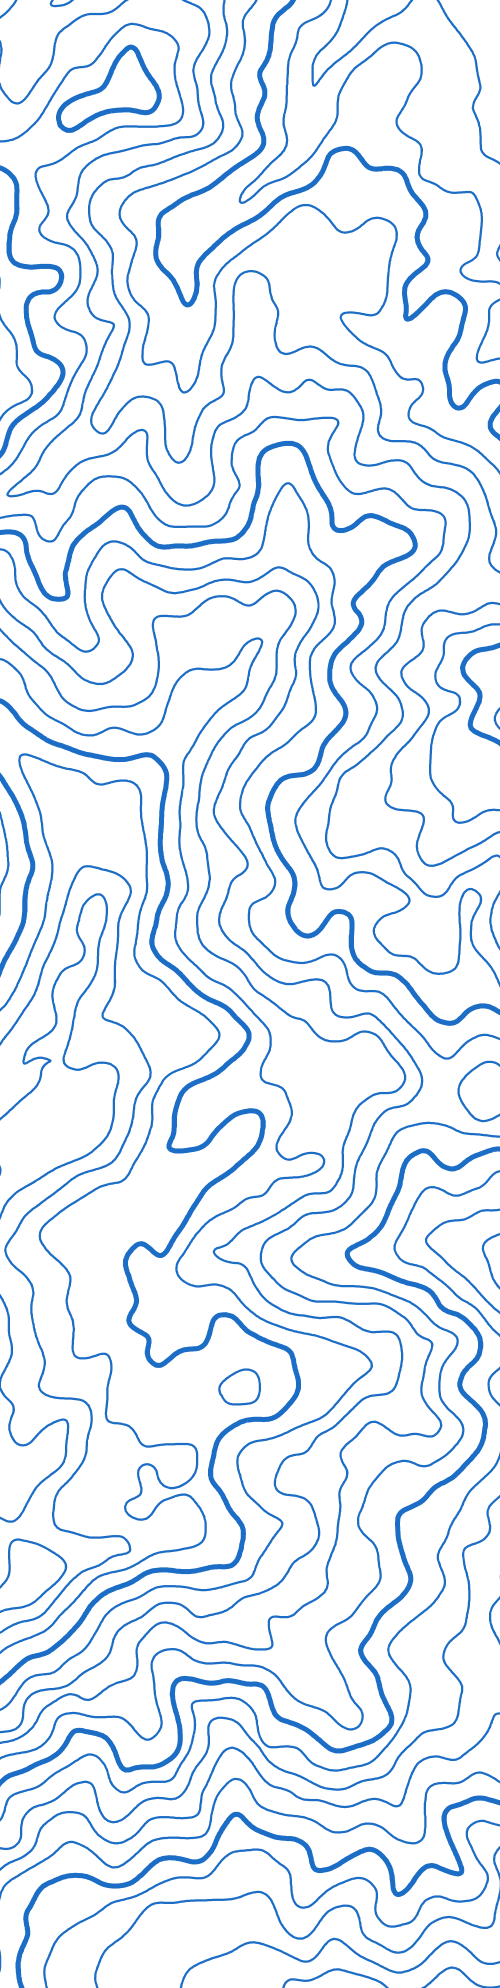
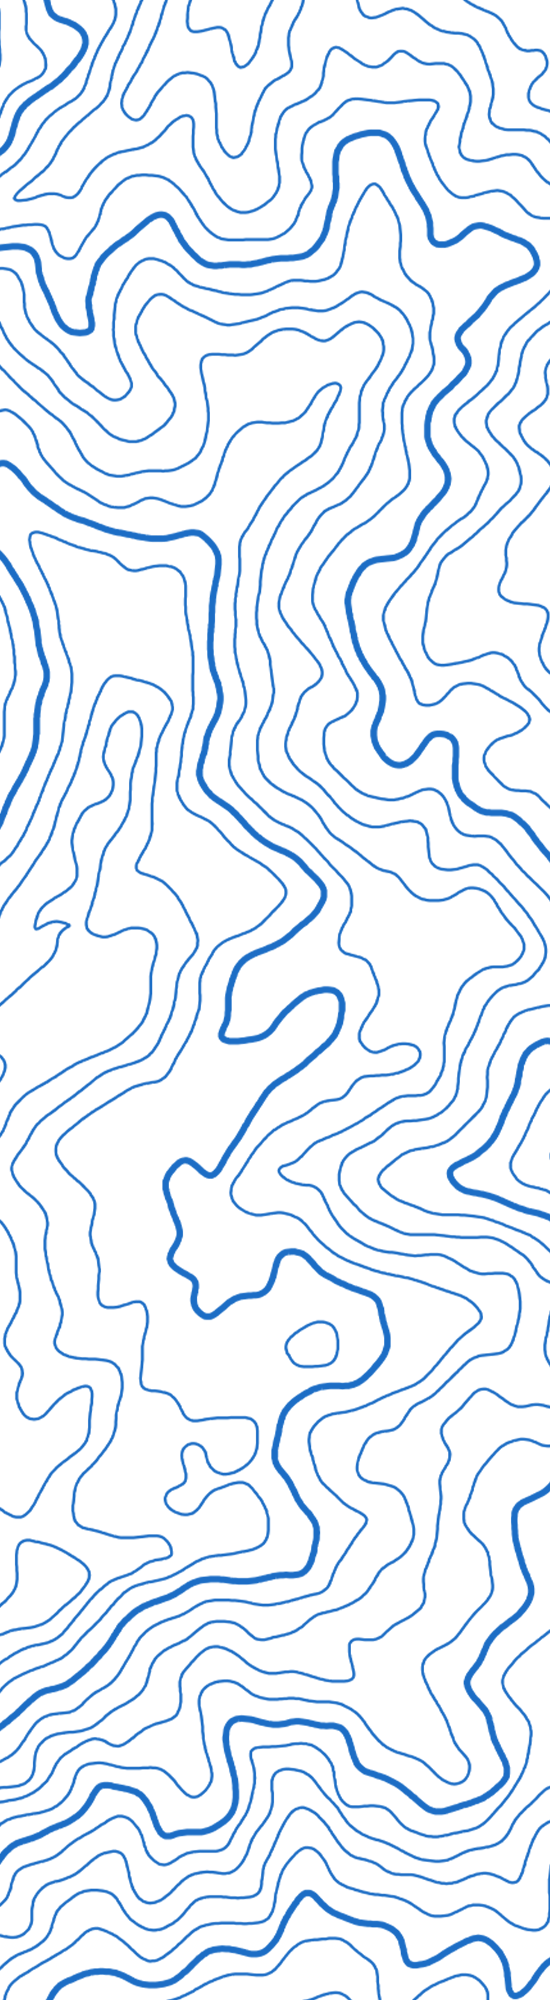
update

Changed region(s): [[0.0, 0.0, 1.0, 1.0]]

diff --git a/GIS/Course.html b/GIS/Course.html
@@ -21,16 +21,16 @@
       @media(max-width: 900px) {
             /* Make the TOC title smaller than the GIS Foundations title */
             #toc-title1 {
-                font-size: 1.3rem !important; /* Adjust the size as needed */
+                font-size: 1.23rem !important; /* Adjust the size as needed */
             }
             /* Increase the text size of TOC items */
             #toc-sub-title {
-              font-size: 1.3rem !important; /* Reduce space between items */
+              font-size: 1.25rem !important; /* Reduce space between items */
             }
 
             /* Adjust the size of TOC item links */
-            #sec-1b08 a {
-                font-size: 1.2rem; /* Adjust the size as needed */
+            #toc-text {
+                font-size: 1.05rem; /* Adjust the size as needed */
             }
           }
 
@@ -118,7 +118,7 @@
       </style>
       
       <div class="image-container">
-          <img src="../GIS/GIS(1).png" height="1988px" width="500px" />
+          <img src="../GIS/GIS(1).png" height="2000px" width="550px" />
       </div>
       
 <h2 class="u-text u-text-custom-color-1 u-text-default u-text-1" style="
@@ -133,17 +133,17 @@
             <li>
                 <h3 style="font-size: 1.4rem;"><a href="introduction.html"id="toc-sub-title">Chapter 1: Introduction</a></h3>
                 <ul>
-                    <li><span style="font-size: 1.2rem;"><a href="spatial-thinking.html">Spatial Thinking</a></span></li>
-                    <li><span style="font-size: 1.2rem;"><a href="geographic-concepts.html">Geographic Concepts</a></span></li>
-                    <li><span style="font-size: 1.2rem;"><a href="geographic-information-systems.html">Geographic Information Systems for Today and Beyond</a></span></li>
+                    <li><span style="font-size: 1.2rem;"><a href="spatial-thinking.html" id="toc-text">Spatial Thinking</a></span></li>
+                    <li><span style="font-size: 1.2rem;"><a href="geographic-concepts.html" id="toc-text">Geographic Concepts</a></span></li>
+                    <li><span style="font-size: 1.2rem;"><a href="geographic-information-systems.html" id="toc-text">Geographic Information Systems for Today and Beyond</a></span></li>
                 </ul>
             </li>
             <li>
                 <h3 style="font-size: 1.4rem;"><a href="map-anatomy.html" id="toc-sub-title">Chapter 2: Map Anatomy</a></h3>
                 <ul>
-                    <li><span style="font-size: 1.2rem;"><a href="maps-and-map-types.html">Maps and Map Types</a></span></li>
-                    <li><span style="font-size: 1.2rem;"><a href="map-scale-coordinate-systems-a.html">Map Scale, Coordinate Systems, and Map Projections</a></span></li>
-                    <li><span style="font-size: 1.2rem;"><a href="map-abstraction.html">Map Abstraction</a></span></li>
+                    <li><span style="font-size: 1.2rem;"><a href="maps-and-map-types.html" id="toc-text">Maps and Map Types</a></span></li>
+                    <li><span style="font-size: 1.2rem;"><a href="map-scale-coordinate-systems-a.html" id="toc-text">Map Scale, Coordinate Systems, and Map Projections</a></span></li>
+                    <li><span style="font-size: 1.2rem;"><a href="map-abstraction.html" id="toc-text">Map Abstraction</a></span></li>
                 </ul>
             </li>
     
@@ -151,71 +151,70 @@
             <li>
               <h3 style="font-size: 1.4rem;"><a href="data-information-and-where-to-.html" id="toc-sub-title">Chapter 3: Data, Information, and Where to Find Them</a></h3>
               <ul>
-                  <li><span style="font-size: 1.2rem;"><a href="data-and-information.html">Data and Information</a></span></li>
-                  <li><span style="font-size: 1.2rem;"><a href="data-about-data.html">Data about Data</a></span></li>
-                  <li><span style="font-size: 1.2rem;"><a href="finding-data.html">Finding Data</a></span></li>
+                  <li><span style="font-size: 1.2rem;"><a href="data-and-information.html" id="toc-text">Data and Information</a></span></li>
+                  <li><span style="font-size: 1.2rem;"><a href="data-about-data.html" id="toc-text">Data about Data</a></span></li>
+                  <li><span style="font-size: 1.2rem;"><a href="finding-data.html" id="toc-text">Finding Data</a></span></li>
               </ul>
           </li>
             <li>
               <h3 style="font-size: 1.4rem;"><a href="data-models-for-gis.html" id="toc-sub-title">Chapter 4: Data Models for GIS</a></h3>
               <ul>
-                  <li><span style="font-size: 1.2rem;"><a href="raster-data-models.html">Raster Data Models</a></span></li>
-                  <li><span style="font-size: 1.2rem;"><a href="vector-data-models.html">Vector Data Models</a></span></li>
-                  <li><span style="font-size: 1.2rem;"><a href="satellite-imagery-and-aerial-p.html">Satellite Imagery and Aerial Photography</a></span></li>
+                  <li><span style="font-size: 1.2rem;"><a href="raster-data-models.html" id="toc-text">Raster Data Models</a></span></li>
+                  <li><span style="font-size: 1.2rem;"><a href="vector-data-models.html" id="toc-text">Vector Data Models</a></span></li>
+                  <li><span style="font-size: 1.2rem;"><a href="satellite-imagery-and-aerial-p.html" id="toc-text">Satellite Imagery and Aerial Photography</a></span></li>
               </ul>
           </li>
           <li>
               <h3 style="font-size: 1.4rem;"><a href="geospatial-data-management.html" id="toc-sub-title">Chapter 5: Geospatial Data Management</a></h3>
               <ul>
-                  <li><span style="font-size: 1.2rem;"><a href="geographic-data-acquisition.html">Geographic Data Acquisition</a></span></li>
-                  <li><span style="font-size: 1.2rem;"><a href="geospatial-database-management.html">Geospatial Database Management</a></span></li>
-                  <li><span style="font-size: 1.2rem;"><a href="file-formats.html">File Formats</a></span></li>
-                  <li><span style="font-size: 1.2rem;"><a href="data-quality.html">Data Quality</a></span></li>
+                  <li><span style="font-size: 1.2rem;"><a href="geographic-data-acquisition.html" id="toc-text">Geographic Data Acquisition</a></span></li>
+                  <li><span style="font-size: 1.2rem;"><a href="geospatial-database-management.html" id="toc-text">Geospatial Database Management</a></span></li>
+                  <li><span style="font-size: 1.2rem;"><a href="file-formats.html" id="toc-text">File Formats</a></span></li>
+                  <li><span style="font-size: 1.2rem;"><a href="data-quality.html" id="toc-text">Data Quality</a></span></li>
               </ul>
           </li>
           <li>
               <h3 style="font-size: 1.4rem;"><a href="data-characteristics-and-visua.html" id="toc-sub-title">Chapter 6: Data Characteristics and Visualization</a></h3>
               <ul>
-                  <li><span style="font-size: 1.2rem;"><a href="descriptions-and-summaries.html">Descriptions and Summaries</a></span></li>
-                  <li><span style="font-size: 1.2rem;"><a href="searches-and-queries.html">Searches and Queries</a></span></li>
-                  <li><span style="font-size: 1.2rem;"><a href="data-classification.html">Data Classification</a></span></li>
+                  <li><span style="font-size: 1.2rem;"><a href="descriptions-and-summaries.html" id="toc-text">Descriptions and Summaries</a></span></li>
+                  <li><span style="font-size: 1.2rem;"><a href="searches-and-queries.html" id="toc-text">Searches and Queries</a></span></li>
+                  <li><span style="font-size: 1.2rem;"><a href="data-classification.html" id="toc-text">Data Classification</a></span></li>
               </ul>
           </li>
           <li>
               <h3 style="font-size: 1.4rem;"><a href="geospatial-analysis-i-vector-o.html" id="toc-sub-title">Chapter 7: Geospatial Analysis I: Vector Operations</a></h3>
               <ul>
-                  <li><span style="font-size: 1.2rem;"><a href="single-layer-analysis.html">Single Layer Analysis</a></span></li>
-                  <li><span style="font-size: 1.2rem;"><a href="multiple-layer-analysis.html">Multiple Layer Analysis</a></span></li>
+                  <li><span style="font-size: 1.2rem;"><a href="single-layer-analysis.html" id="toc-text">Single Layer Analysis</a></span></li>
+                  <li><span style="font-size: 1.2rem;"><a href="multiple-layer-analysis.html" id="toc-text">Multiple Layer Analysis</a></span></li>
               </ul>
           </li>
           <li>
               <h3 style="font-size: 1.4rem;"><a href="geospatial-analysis-ii-raster-.html" id="toc-sub-title">Chapter 8: Geospatial Analysis II: Raster Data</a></h3>
               <ul>
-                  <li><span style="font-size: 1.2rem;"><a href="basic-geoprocessing-with-raste.html">Basic Geoprocessing with Rasters</a></span></li>
-                  <li><span style="font-size: 1.2rem;"><a href="scale-of-analysis.html">Scale of Analysis</a></span></li>
-                  <li><span style="font-size: 1.2rem;"><a href="surface-analysis-spatial-inter.html">Surface Analysis: Spatial Interpolation</a></span></li>
-                  <li><span style="font-size: 1.2rem;"><a href="surface-analysis-terrain-mappi.html">Surface Analysis: Terrain Mapping</a></span></li>
+                  <li><span style="font-size: 1.2rem;"><a href="basic-geoprocessing-with-raste.html" id="toc-text">Basic Geoprocessing with Rasters</a></span></li>
+                  <li><span style="font-size: 1.2rem;"><a href="scale-of-analysis.html" id="toc-text">Scale of Analysis</a></span></li>
+                  <li><span style="font-size: 1.2rem;"><a href="surface-analysis-spatial-inter.html" id="toc-text">Surface Analysis: Spatial Interpolation</a></span></li>
+                  <li><span style="font-size: 1.2rem;"><a href="surface-analysis-terrain-mappi.html" id="toc-text">Surface Analysis: Terrain Mapping</a></span></li>
               </ul>
           </li>
           <li>
               <h3 style="font-size: 1.4rem;"><a href="cartographic-principles.html" id="toc-sub-title">Chapter 9: Cartographic Principles</a></h3>
               <ul>
-                  <li><span style="font-size: 1.2rem;"><a href="color.html">Color</a></span></li>
-                  <li><span style="font-size: 1.2rem;"><a href="symbology.html">Symbology</a></span></li>
-                  <li><span style="font-size: 1.2rem;"><a href="cartographic-design.html">Cartographic Design</a></span></li>
+                  <li><span style="font-size: 1.2rem;"><a href="color.html" id="toc-text">Color</a></span></li>
+                  <li><span style="font-size: 1.2rem;"><a href="symbology.html" id="toc-text">Symbology</a></span></li>
+                  <li><span style="font-size: 1.2rem;"><a href="cartographic-design.html" id="toc-text2">Cartographic Design</a></span></li>
               </ul>
           </li>
             <li>
               <h3 style="font-size: 1.4rem;"><a href="gis-project-management.html" id="toc-sub-title">Chapter 10: GIS Project Management</a></h3>
       <ul>
-        <li><span style="font-size: 1.2rem;"><a href="project-management-basics.html">Project Management Basics</a></span></li>
-        <li><span style="font-size: 1.2rem;"><a href="gis-project-management-tools-a.html">GIS Project Management Tools and Techniques</a></span></li>
+        <li><span style="font-size: 1.2rem;"><a href="project-management-basics.html" id="toc-text">Project Management Basics</a></span></li>
+        <li><span style="font-size: 1.2rem;"><a href="gis-project-management-tools-a.html" id="toc-text">GIS Project Management Tools and Techniques</a></span></li>
       </ul>
             </li>
         </ul>
       </div>
     </div>
-
     </section>
     <footer class="u-align-center u-clearfix u-footer u-white u-footer" id="sec-9996">
       <div class="u-clearfix u-sheet u-valign-middle u-sheet-1">
